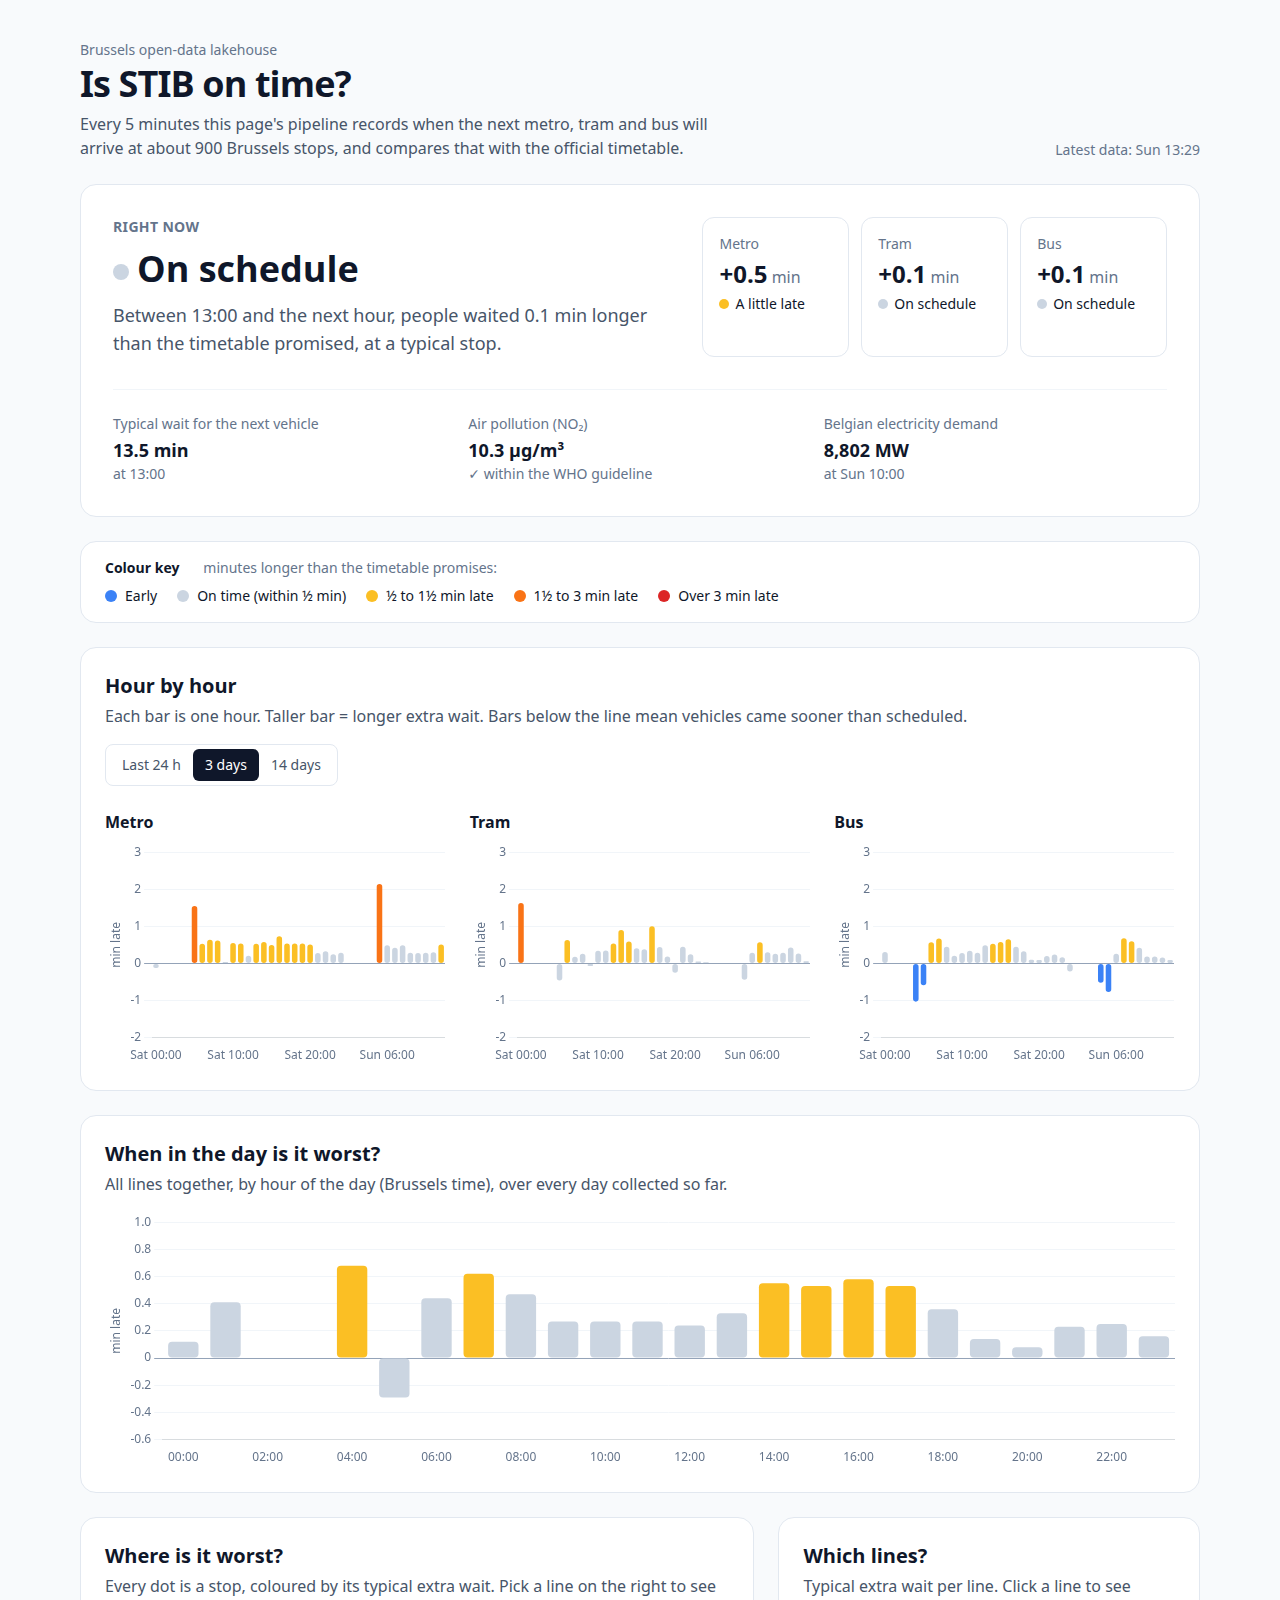
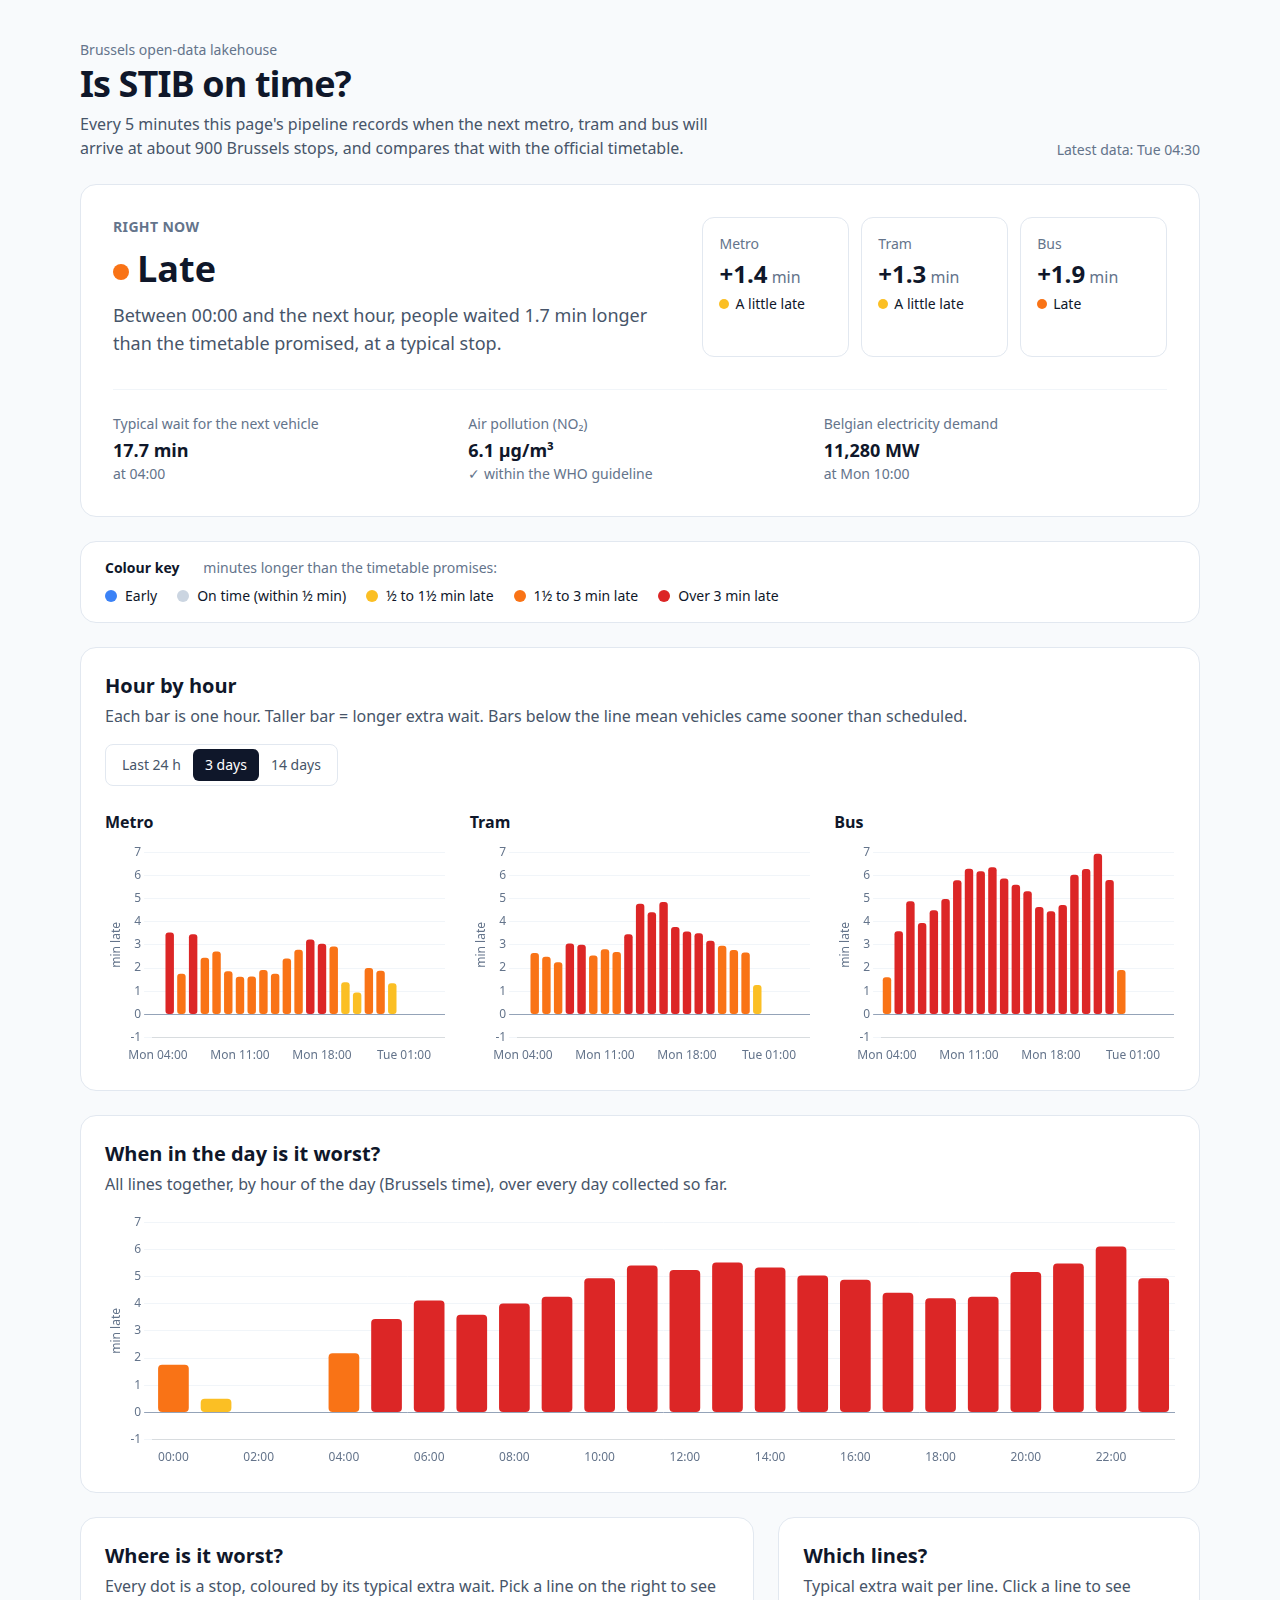
README: screenshots and numbers from Monday 12 October, when almost nothing ran on time

diff --git a/README.md b/README.md
@@ -8,9 +8,11 @@ Every 5 minutes this pipeline collects Brussels public-transport, air-quality an
 
 The page answers in plain words whether STIB is on time right now, shows the extra wait per hour for metro, tram and bus, the worst hours of the day, a map of every stop coloured by delay, and the lines furthest behind. Click a line to see which of its stops are late. Air quality, grid load and the full hourly table (with CSV download) sit below.
 
+The screenshots are from the morning of Tuesday 13 October 2026, after a day when almost nothing ran on time. On Monday 12 October people waited a median 4.7 minutes longer than the timetable promised across Brussels, in 19 of 22 measured hours more than 3 minutes. Bus was worst (+5.3 min median), tram +3.0, metro +2.0. Of 68 lines, 58 were more than 3 minutes behind and 29 more than 5; 84% of the 1,634 stops were red. Bus 58 ran 10.1 minutes late at a typical stop, 21.5 minutes in a bad hour, at every one of its 40 stops. Only bus 72 ran early.
+
 | Every stop, coloured by delay | Click a line: its stops, worst first |
 |---|---|
-| ![Map of all stops](docs/map.png) | ![Line M6 stop by stop](docs/line.png) |
+| ![Map of all stops, 84% red](docs/map.png) | ![Bus 58 stop by stop, 10 min late everywhere](docs/line.png) |
 
 **Sister project:** [Brussels Live](https://live.jwds.me) ([code](https://github.com/Huntsama/brussels-live)) shows every STIB vehicle moving on a map right now. This lakehouse feeds it a small data product, `lines.json` (how late each line usually is, hour by hour), so the live map can say "line 71 is usually 2 min late at this hour". History here, live there.
 
@@ -50,7 +52,9 @@ flowchart LR
 
 `uv run python -m lakehouse.analysis` prints excess wait by mode, by line and by hour of day, and correlates it with air quality and grid load (raw, and with the daily rhythm removed so rush hour isn't mistaken for a link).
 
-First look (13 hours, 10 Oct 2026): metro runs +0.5 min over its timetable, tram +0.4, bus +0.4. Bus 75 and tram 35 are the furthest behind. The correlations wait for a full week of data.
+First look (13 hours, Fri 10 Oct 2026): metro +0.5 min over its timetable, tram +0.4, bus +0.4; bus 75 and tram 35 furthest behind.
+
+First full day (Mon 12 Oct 2026, 22 hours): a different picture. Citywide median excess wait +4.7 min, peaking at +6.1 min at 20:00. Bus +5.3 min, tram +3.0, metro +2.0 (metro 2 alone +5.6). 58 of 68 lines more than 3 min behind; the worst eight are all buses: 58 (+10.1), 78 (+8.8), 73 (+8.2), 45 and 36 (+7.8), 46 (+7.3), 87 (+7.2), T81 (+6.8). By hour of day the delay climbs from +2 min at 04:00 to over +5 min from 11:00 and stays there until the last vehicles. The correlations still wait for a full week of data.
 
 ## Field notes
 
